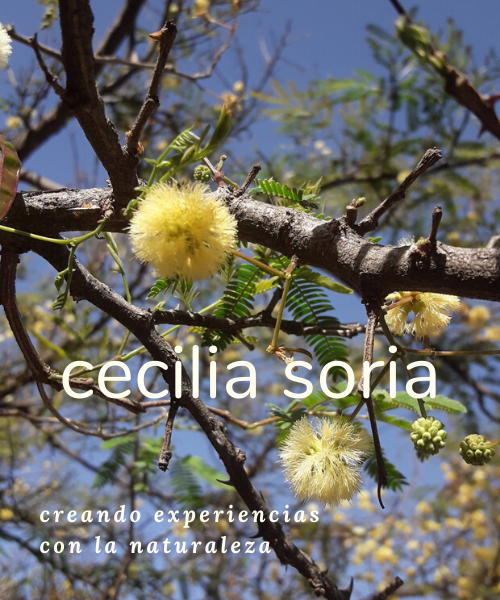
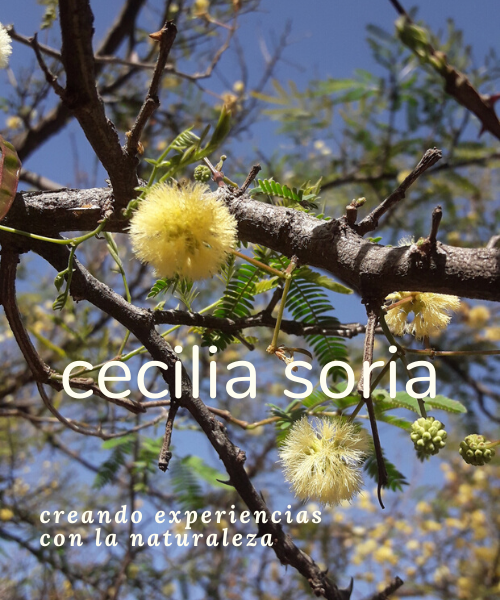
Cambios 2500

Changed region(s): [[0.06, 0.84, 0.66, 0.93]]

diff --git a/index.html b/index.html
@@ -16,8 +16,8 @@
     href="https://cdnjs.cloudflare.com/ajax/libs/animate.css/4.1.1/animate.min.css"
   />
   <link rel="preconnect" href="https://fonts.googleapis.com">
-<link rel="preconnect" href="https://fonts.gstatic.com" crossorigin>
-<link href="https://fonts.googleapis.com/css2?family=Nunito&display=swap" rel="stylesheet">
+  <link rel="preconnect" href="https://fonts.gstatic.com" crossorigin>
+  <link href="https://fonts.googleapis.com/css2?family=Lora:ital,wght@1,600&family=Nunito&display=swap" rel="stylesheet">
 </head>
 <body>
 
@@ -63,7 +63,7 @@
           <div class="carousel-item active" data-interval="3000">
             <img src="img/1920x600 ppal..png" class="d-block w-100 inicio" alt="...">
             <div class="carousel-caption d-none d-md-block mb-8">
-              <h1 class="animate__animated animate__fadeIn animate__slower mb-5 ceciliasoria">cecilia soria</h1>
+              <h1 class="animate__animated animate__fadeIn animate__slower mb-5 ceciliasoria">ceciIia soria</h1>
               <p></p>
             </div>
           </div>
@@ -76,7 +76,7 @@
             <img src="img/1920x600 ppal. (2).png" class="d-block w-100 inicio" alt="...">
             <div class="carousel-caption d-none d-md-block mb-8 mr-5">
                 <!-- <h1 class="animate__animated animate__fadeIn animate__slower ceciliasoria2">espacios para ser vividos</h1> -->
-                <h1 class="animate__animated animate__fadeIn animate__slower ceciliasoria1">creando experiencias <br> con la naturaleza</h1>
+                <h1 class="animate__animated animate__fadeIn animate__slower ceciliasoria1 mb-7">creando experiencias <br> con la naturaleza</h1>
               <p></p>
             </div>
           </div>
@@ -97,21 +97,23 @@
         <!-- Services -->
         <div class="row mb-7">
             <div class="col-lg-6 col-md-6">
-                <div class="tm-bg-gray tm-box">
+                <div class=" tm-box">
                     <div class="text-center mb-3">
                         <img src="img/iconoclaro.png" alt="" class="imagen1">
                     </div>
-                    <h4 class="tm-text-primary tm-h3 mb-5 titulosSecundarios">DISEÑO Y EJECUCION DE JARDINES</h4>
+                    <h4 class="tm-text-primary tm-h3 mb-4 titulosSecundarios">DISEÑO Y EJECUCION DE JARDINES</h4>
+                    <hr class="mb-5 tm-hr1">
                     <p>Definimos el espacio, a partir de allí elaboramos un proyecto de diseño que sea funcional y se ajuste a la experiencia que desean tener quienes van a vivirlo.<br><br><br></p>
                 </div>
             </div>
             <div class="col-lg-6 col-md-6">
-                <div class="tm-bg-gray tm-box">
+                <div class=" tm-box">
                     <div class="text-center mb-3">
                         <img src="img/iconoclaro2.png" alt="" class="imagen1">
                     </div>
-                    <h4 class="tm-h3 mb-5 titulosSecundarios">MANTENIMIENTO Y PUESTA A PUNTO DE ESPACIOS</h4>
-                    <p>Tan importante como la construcción de un jardín es su mantenimiento. En estos casos, realizamos un diagnóstico de necesidades y situaciones a resolver, para elaborar un plan de manejo vegetal y su posterior ejecución. Algunas de las tareas que comprende: <br>- podas<br>- acondicionamiento de canteros (limpieza/desmalezado)<br>- manejo estacional de especies.</p>
+                    <h4 class="tm-h3 mb-4 titulosSecundarios">MANTENIMIENTO Y PUESTA A PUNTO DE ESPACIOS</h4>
+                    <hr class="mb-5 tm-hr1">
+                    <p>Tan importante como la construcción de un jardín es su mantenimiento. En estos casos, realizamos un diagnóstico de necesidades y situaciones a resolver, para elaborar un plan de manejo vegetal y su posterior ejecución.<br> Algunas de las tareas que comprende: <br>- podas<br>- acondicionamiento de canteros (limpieza/desmalezado)<br>- manejo estacional de especies.</p>
                 </div>
             </div>
         </div>

diff --git a/css/templatemo-business-oriented.css b/css/templatemo-business-oriented.css
@@ -57,6 +57,12 @@ p {
     margin: 0;
 }
 
+.tm-hr1 {
+    width: 240px;
+    border-top: 3px solid #bacc6a;
+    margin: 0;
+}
+
 .tm-hr-s { width: 140px; }
 .tm-box-bordered { border: 1px solid #9C9D9E; }
 .container-fluid { max-width: 1480px; }
@@ -376,6 +382,23 @@ select:not([multiple]) {
   color: #666;
 }
 
+.flex{
+    display: flex;
+    flex-wrap: wrap;
+}
+
+.flex1{
+    flex: 40%;
+    height: 788px;
+    margin: 10px;
+    max-width: 900px;
+}
+
+.flex2{
+    flex: 38%;
+    margin: 10px;
+}
+
 #contactSelect { border-radius: 0 }
 .tm-address-text { max-width: 650px; }
 
@@ -387,10 +410,13 @@ select:not([multiple]) {
 
     .flex1{
         flex: 100%!important;
+        max-width: 100%!important;
+        margin: 0!important;
     }
 
     .flex2{
         flex: 100%!important;
+        margin: 0!important;
     }
 }
 
@@ -398,6 +424,10 @@ select:not([multiple]) {
 
     .inicio{
         height: 500px !important;
+    }
+
+    .flex1{
+        height: 592px;
     }
 }
 
@@ -548,21 +578,7 @@ body{
     background: url(../img/reemplazaJUmobile.png);
 }
 
-.flex{
-    display: flex;
-    flex-wrap: wrap;
-}
 
-.flex1{
-    flex: 55%;
-    height: 700px;
-    margin: 10px;
-}
-
-.flex2{
-    flex: 38%;
-    margin: 10px;
-}
 
 .ceciliasoria{
     font-size: 100px;
@@ -572,10 +588,12 @@ body{
 
 .ceciliasoria1{
     color: #fefdf0;
-    font-family: 'Nunito', sans-serif;
-    font-size: 44px;
+    font-family: 'Lora', serif;
+    font-size: 35px;
     text-align: right;
     line-height: 0.9;
+    margin-bottom: 150px;
+    margin-right: 90px;
 }
 
 .ceciliasoria2{

diff --git a/services copy 2.html b/services copy 2.html
@@ -68,7 +68,7 @@
                   <h4>El Desafío<br></h4>
                   <p>Las imponentes rocas que contienen la vivienda, estableciendo una frontera natural y dando la bienvenida a la vez.</p>
                   <div class="tm-overlay p-3 mx-auto text-center">
-                    <a href="https://www.instagram.com/p/CPCKpW5gI7M/?utm_medium=share_sheet" target="_blanck" class="btn btn-primary">Ver Jardin Serrano en Instagram</a>
+                    <a href="https://www.instagram.com/p/CbGX1T1LfWo/" target="_blanck" class="btn btn-primary">Ver Jardin Serrano en Instagram</a>
                 </div>
                 </div>
               </div>
